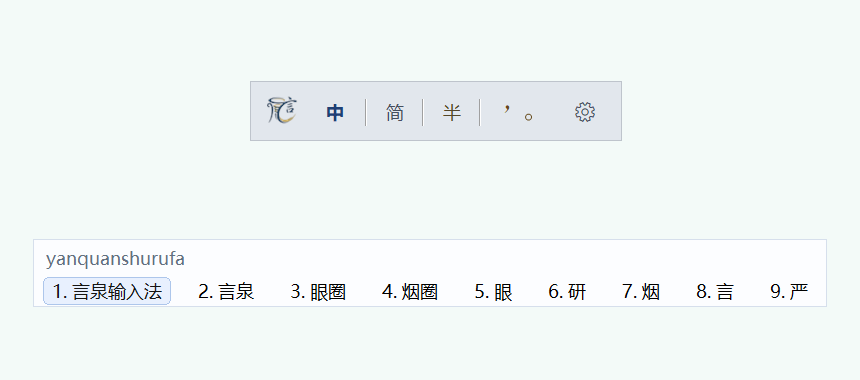
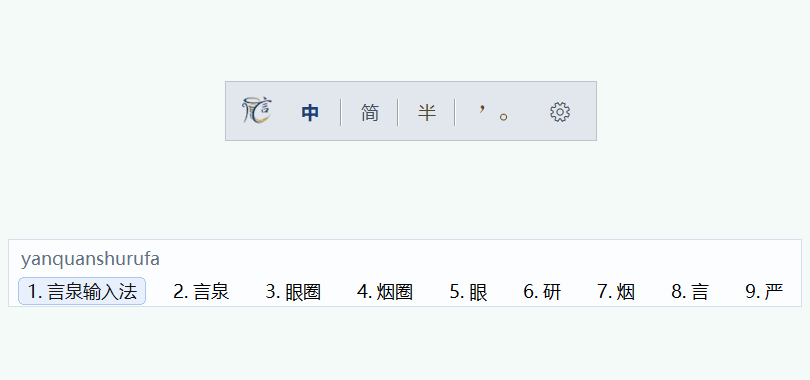
Update README snapshot image

diff --git a/README.CN.md b/README.CN.md
@@ -8,7 +8,7 @@
   <a href="LICENSE"><img src="https://img.shields.io/badge/license-GPL--3.0-blue" alt="License: GPL-3.0"></a>
 </p>
 <p align="center">
-  <img src="snapshot.png" alt="Cassotis IME snapshot" width="860">
+  <img src="snapshot.png" alt="Cassotis IME snapshot" width="810">
 </p>
 
 [English](README.md) | 简体中文

diff --git a/README.md b/README.md
@@ -8,7 +8,7 @@
   <a href="LICENSE"><img src="https://img.shields.io/badge/license-GPL--3.0-blue" alt="License: GPL-3.0"></a>
 </p>
 <p align="center">
-  <img src="snapshot.png" alt="Cassotis IME snapshot" width="860">
+  <img src="snapshot.png" alt="Cassotis IME snapshot" width="810">
 </p>
 
 English | [简体中文](README.CN.md)